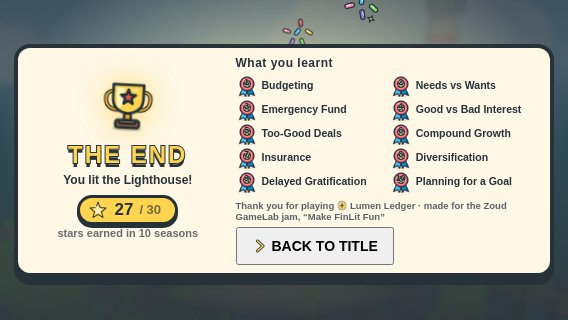
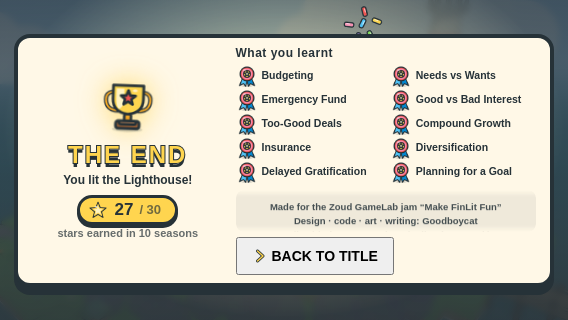
WIP ?: S73: credits roll window sized (no clipping on 568x320)

Changed region(s): [[0.0, 0.0, 0.9877, 0.7188], [0.0299, 0.7188, 0.9877, 0.9375], [0.1796, 0.25, 0.2694, 0.4062]]

diff --git a/LUMEN/game/ui/credits.css b/LUMEN/game/ui/credits.css
@@ -25,7 +25,7 @@
 @keyframes ll-cr-in { to { opacity: 1; transform: none; } }
 .ll-credits-les .n { position: relative; flex: none; width: 28px; height: 28px; } .ll-credits-les .n .ll-ico { width: 28px; height: 28px; display: block; }
 .ll-credits-les .n b { position: absolute; left: 0; right: 0; top: 4px; text-align: center; font-size: 11px; font-weight: 900; color: var(--ink); text-shadow: 0 1px 0 #fff8; }
-.ll-credits-roll { --rh: 34px; position: relative; height: var(--rh); overflow: hidden; margin: 2px 0 0; border-radius: 8px; background: rgba(38,50,56,.07); -webkit-mask-image: linear-gradient(transparent, #000 22%, #000 78%, transparent); mask-image: linear-gradient(transparent, #000 22%, #000 78%, transparent); }
+.ll-credits-roll { --rh: 51px; position: relative; height: var(--rh); overflow: hidden; margin: 2px 0 0; border-radius: 8px; background: rgba(38,50,56,.07); -webkit-mask-image: linear-gradient(transparent, #000 16%, #000 84%, transparent); mask-image: linear-gradient(transparent, #000 16%, #000 84%, transparent); }
 .ll-credits-rollin { position: absolute; left: 0; right: 0; top: 0; text-align: center; animation: ll-roll calc(var(--n) * 2.6s) linear infinite; }
 .ll-credits-rl { margin: 0; height: 17px; line-height: 17px; font-size: 11px; font-weight: 800; opacity: .85; white-space: nowrap; overflow: hidden; text-overflow: ellipsis; }
 .ll-credits-rl .ll-ico { width: 1.1em; height: 1.1em; vertical-align: -.2em; }
@@ -33,7 +33,7 @@
 .ll-credits-back { align-self: flex-start; min-height: 44px; padding: 6px 20px; font-size: 16px; font-weight: 900; }
 @media (max-height: 340px) { .ll-credits-card { padding: 8px 14px; gap: 12px; border-radius: 16px; } .ll-credits-trophy .ll-ico { width: 54px; height: 54px; } .ll-credits-title { font-size: 24px; -webkit-text-stroke: 2px var(--ink); } .ll-credits-sub { font-size: 12px; }
   .ll-credits-stars { font-size: 17px; } .ll-credits-stars .ll-ico { width: 20px; height: 20px; } .ll-credits-head { font-size: 12px; } .ll-credits-les { font-size: 10.5px; gap: 4px; } .ll-credits-les .n, .ll-credits-les .n .ll-ico { width: 22px; height: 22px; } .ll-credits-les .n b { font-size: 9px; top: 3px; }
-  .ll-credits-roll { --rh: 28px; } .ll-credits-rl { font-size: 9.5px; height: 14px; line-height: 14px; } .ll-credits-back { min-height: 38px; font-size: 14px; padding: 4px 14px; } .ll-credits-lessons { gap: 2px 8px; } .ll-credits-r { gap: 5px; } }
+  .ll-credits-roll { --rh: 42px; } .ll-credits-rl { font-size: 9.5px; height: 14px; line-height: 14px; } .ll-credits-back { min-height: 38px; font-size: 14px; padding: 4px 14px; } .ll-credits-lessons { gap: 2px 8px; } .ll-credits-r { gap: 5px; } }
 @media (max-width: 520px) and (min-height: 341px) { .ll-credits-card { flex-direction: column; } .ll-credits-l { flex-basis: auto; } }
 body.ll-reduce-motion .ll-credits-c, body.ll-reduce-motion .ll-credits-trophy .ll-ico { animation: none; }
 body.ll-reduce-motion .ll-credits-roll { height: auto; overflow: visible; -webkit-mask-image: none; mask-image: none; background: none; } body.ll-reduce-motion .ll-credits-rollin { position: static; animation: none; }
